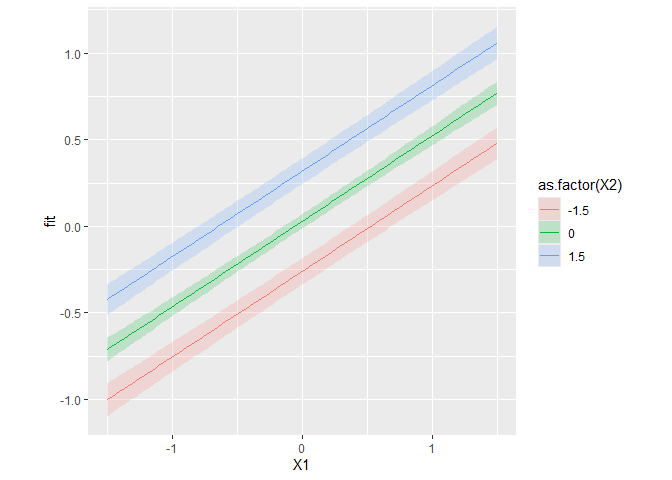
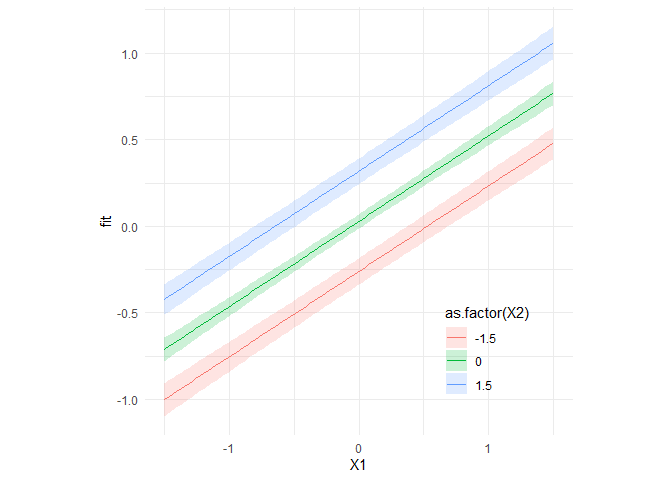
update readme

diff --git a/README.md b/README.md
@@ -5,7 +5,7 @@ This repository contains a single function, `predict_delta_glmmTMB`,
 which returns predicitons and confidence intervals for model predictions
 fitted with glmmTMB. Confidence intervals are computed using the Delta
 method. The function is much faster and uses less memory than
-`ggeffects::ggpredict`.
+`ggeffects::ggpredict`, but does not perform any checks.
 
 ## Example
 
@@ -62,10 +62,30 @@ head(pred)
 
 ``` r
 library(ggplot2)
-ggplot(pred, aes(x = X1, y = fit)) +
+(pred_plot <- ggplot(pred, aes(x = X1, y = fit)) +
   geom_line(aes(colour = as.factor(X2))) +
   geom_ribbon(aes(fill = as.factor(X2), ymin = conf_low, ymax = conf_high), alpha = 0.2) + 
-  theme(aspect.ratio = 1)
+  theme_minimal() + 
+  theme(aspect.ratio = 1,
+        legend.position = 'inside',
+        legend.position.inside = c(0.8, 0.2)))
 ```
 
 ![](README_files/figure-gfm/unnamed-chunk-3-1.png)<!-- -->
+
+5.  Compare to `ggeffects::ggpredict`
+
+``` r
+library(ggeffects)
+pred_ggpredict <- data.frame(ggpredict(m, newdata))
+
+(pred_plot_ggeffects <- ggplot(pred_ggpredict, aes(x = x, y = predicted)) +
+  geom_line(aes(colour = group)) +
+  geom_ribbon(aes(fill = group, ymin = conf.low, ymax = conf.high), alpha = 0.2) + 
+  theme_minimal() + 
+  theme(aspect.ratio = 1,
+        legend.position = 'inside',
+        legend.position.inside = c(0.8, 0.2))) 
+```
+
+![](README_files/figure-gfm/unnamed-chunk-4-1.png)<!-- -->
